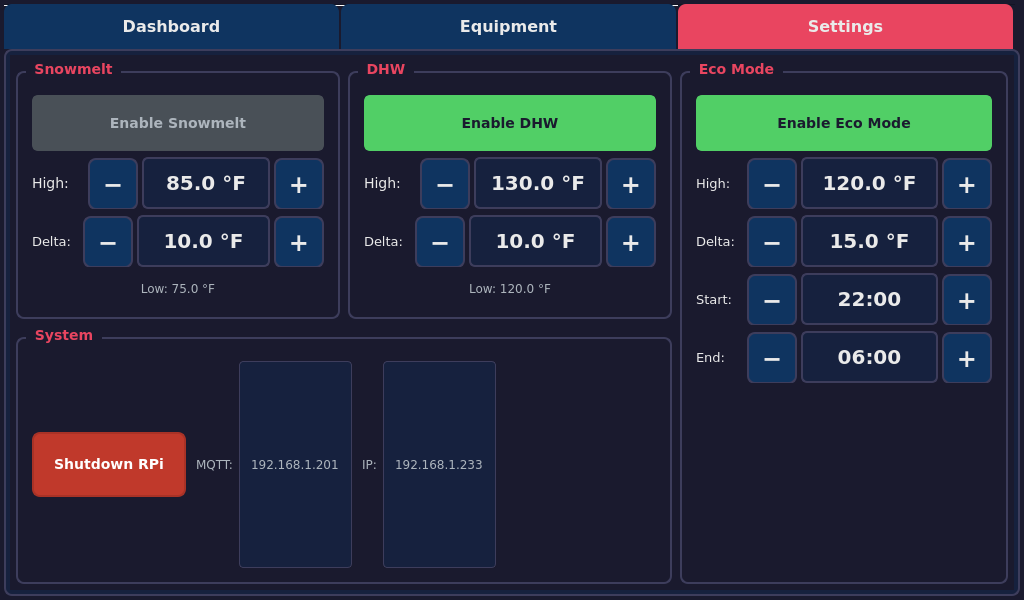
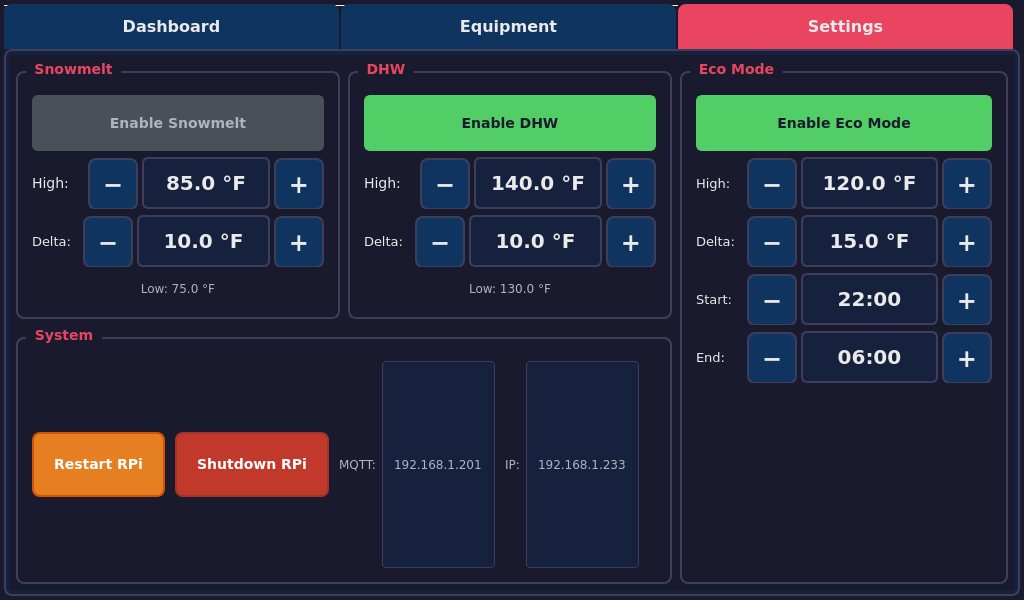
Updated ReadMe

Changed region(s): [[0.0312, 0.72, 0.5, 0.84], [0.5312, 0.75, 0.625, 0.78]]

diff --git a/README.md b/README.md
@@ -29,6 +29,7 @@ This control system manages:
 - Temperature-based control with high setpoint and delta T (differential)
 - **Shutdown Delay Timer**: Schedule automatic snowmelt shutdown (15-min increments, up to 24 hours)
 - **Setpoint Persistence**: User-modified setpoints are saved to disk and survive reboots (debounced to minimize SD card writes)
+- **1-Wire Self-Healing**: Automatic detection and recovery from 1-Wire bus failures — if all sensors become unresponsive, the system reloads kernel modules to restore communication without requiring a manual restart
 
 ### Graphical User Interface
 
@@ -551,10 +552,12 @@ The touchscreen GUI (1024x600) provides three tabs:
 - **Setpoint Configuration**: Adjust high temperature and delta T for Glycol, DHW, and Eco Mode
 - **Eco Mode Schedule**: Set start and end times for eco mode (30-minute increments)
 - **System Information**: Displays MQTT broker address and local IP address
-- **Shutdown RPi Button**: Safely shutdown the Raspberry Pi (with confirmation dialog)
+- **Restart RPi Button**: Reboot the Raspberry Pi (amber button, with confirmation dialog)
+- **Shutdown RPi Button**: Safely shutdown the Raspberry Pi (red button, with confirmation dialog)
 
 ### Key Features
 - **Non-blocking sensor reads**: Background thread reads sensors asynchronously, preventing GUI freezes
+- **1-Wire bus self-healing**: Automatically detects total sensor failure and reloads kernel modules (`w1_therm`, `w1_gpio`) to recover — up to 3 attempts before requiring manual intervention
 - **Setpoint Persistence**: Modified setpoints are automatically saved to `setpoints_state.yaml` and restored on restart
 - **Touch-optimized controls**: Large +/- buttons for setpoint adjustment
 - Press **ESC** key to exit the application
@@ -635,6 +638,27 @@ After reboot:
 ---
 
 ## Troubleshooting
+
+### All Sensors Showing as Unavailable
+
+The system includes automatic 1-Wire bus self-healing. If all sensors become unresponsive, the system will:
+1. Detect 5 consecutive all-sensor-failure read cycles (~10 seconds)
+2. Automatically unload and reload the `w1_therm` and `w1_gpio` kernel modules
+3. Retry up to 3 times before logging an error requiring manual intervention
+
+If auto-recovery fails:
+```bash
+# Check service logs for reset attempts
+sudo journalctl -u snowmelt.service | grep "1-Wire"
+
+# Manual kernel module reload
+sudo modprobe -r w1_therm w1_gpio
+sudo modprobe w1_gpio
+sudo modprobe w1_therm
+
+# Or restart the service
+sudo systemctl restart snowmelt.service
+```
 
 ### Sensors Not Found
 
@@ -743,4 +767,4 @@ For issues or questions:
 
 ---
 
-*Last updated: January 2026*
+*Last updated: March 2026*
